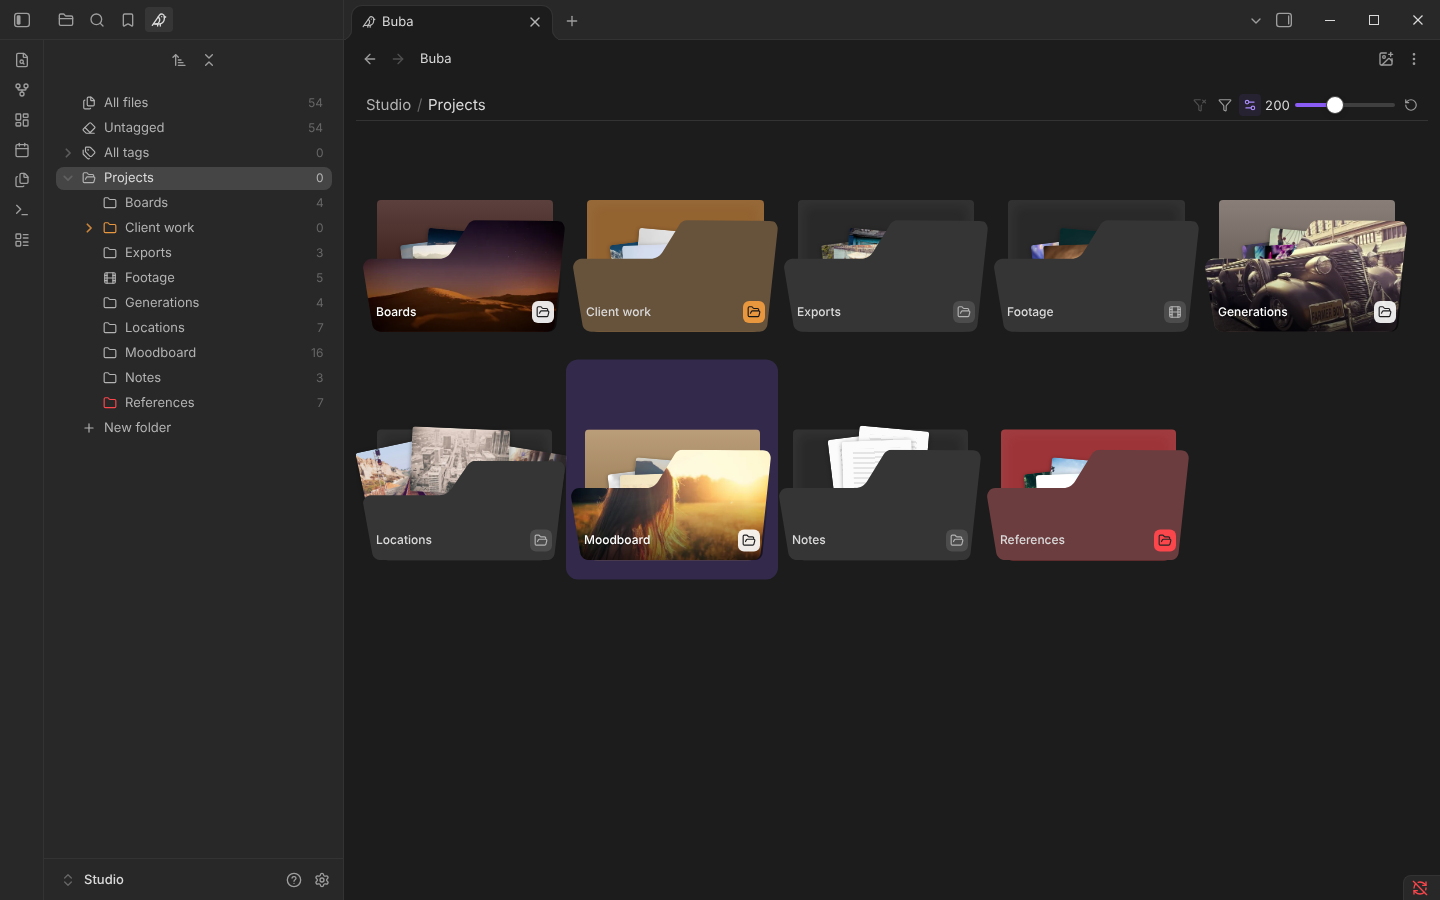
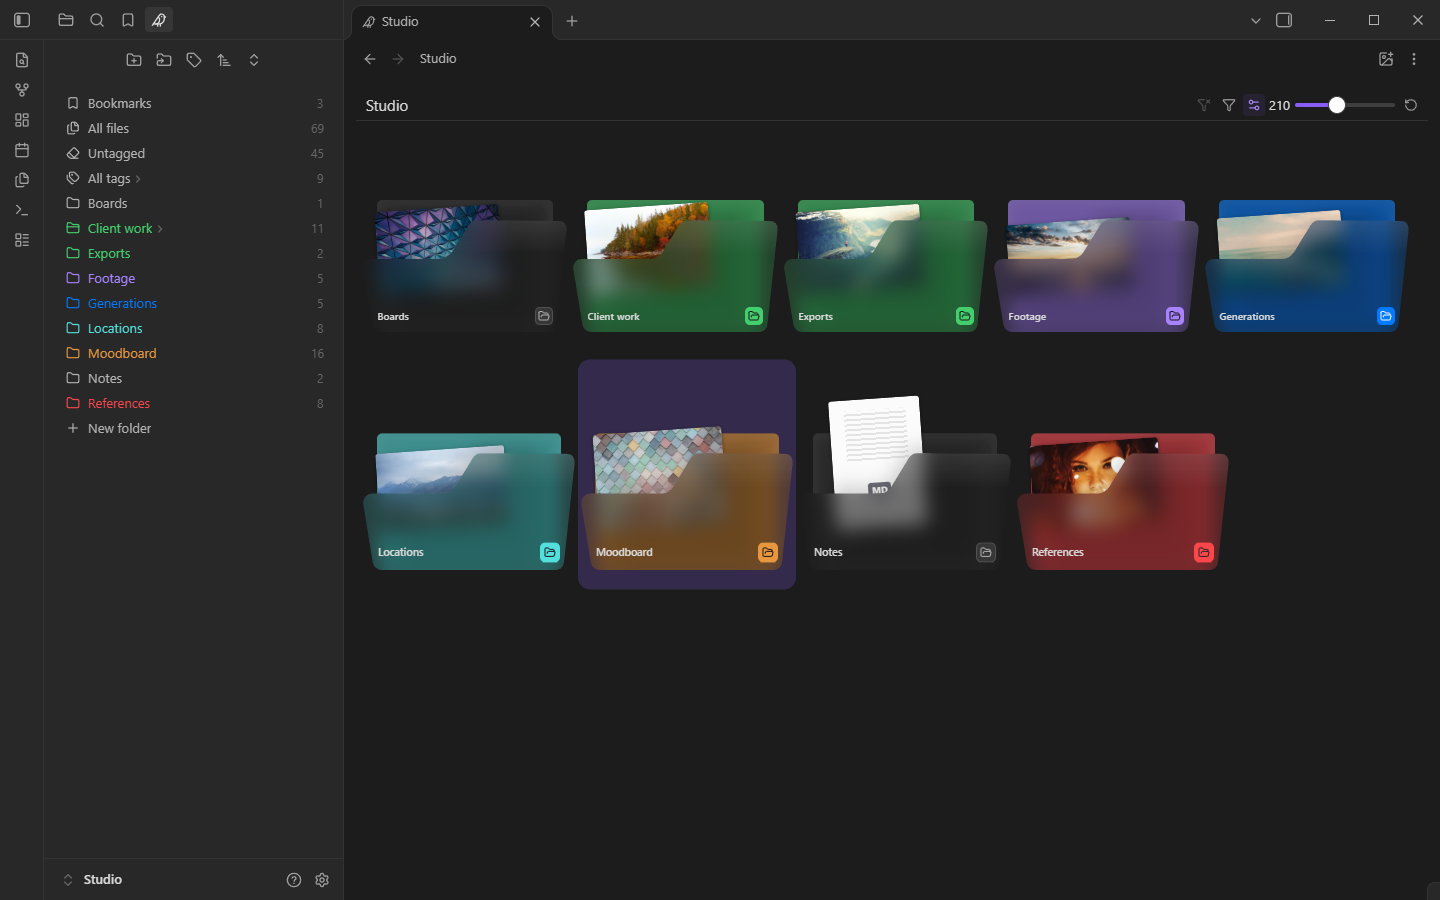
README: new screenshots and GIFs for 1.2.0, grid bookmarks and copy-paste of tiles

diff --git a/README.md b/README.md
@@ -6,31 +6,37 @@ Buba turns the folders of your vault into a visual asset library. Every file sho
 
 ## Browse your folders
 
-- **A grid of previews for any folder**: one folder, a folder with its subfolders, every file with a tag, or all files at once. Go back and forward through visited folders like in a browser.
+- **A grid of previews for any folder**: one folder, a folder with its subfolders, every file with a tag, your bookmarks, or all files at once. Go back and forward through visited folders like in a browser.
+- **Tabs, as in Obsidian's file explorer**: the middle mouse button or "Open in new tab" opens a folder, tag or file in a new tab, and each Buba tab is titled by what it shows.
 - **Three layouts**: Grid with even tiles, Justified rows and Columns, with a tile size slider and file names on or off.
-- **Sorting by two keys**, for example by rating and then by date, and a file type filter.
+- **Sorting by two keys**, for example by rating and then by date, or by type to keep files of one kind together, and a file type filter.
 - **Each folder can keep its own view**, or all folders share one.
-- **Previews for many formats**: PNG, JPG, GIF, WebP and other images, videos, the first page of a PDF, the embedded preview of PSD, PSB and AI files, the beginning of Markdown and text notes. Other files get a format badge.
+- **Previews for many formats**: PNG, JPG, GIF, WebP and other images, videos, the first page of a PDF, the full picture of PSD and PSB files, the embedded preview of AI files, the beginning of Markdown and text notes. Other files get a format badge.
 
 ![Switching the grid between the Grid, Justified and Columns layouts and changing the tile size](docs/readme/layouts.gif)
 
 ## Folders with covers
 
-- **Folder tiles look like folders**: a slanted front with a few of the folder's files peeking out of it, which fan out when you point at the folder on a computer.
+- **Folder tiles look like folders**: a glass front with the folder's cover standing inside, and more of its files fanning out when you point at the folder on a computer.
 - **Give a folder a cover** to turn it into a board of references: right-click the tile and upload a picture, or make any picture in the folder its cover. Move and zoom the cover to frame it. Covers are stored in Buba's own data, never among your files, and follow the folder when you rename or move it.
-- **Without a cover** a folder shows its own icon and color, as in the tree, or its newest picture.
-- **Choose the look** in Buba's settings: the cover on the front or behind a glass front, files inside or not, and how a selected folder is marked.
+- **Without a cover** a folder shows its own icon and color, as in the tree. Turn on "Cover from contents" in Buba's settings to show its newest picture instead.
+- **Choose the look** in Buba's settings: one picture as the cover, a few files inside or none, the cover in front or behind the glass, and how a selected folder is marked.
 
-![Folder tiles in the grid: covers on Boards, Generations and Moodboard, colored Client work and References, files peeking out of each folder, Moodboard selected](docs/readme/folders.png)
+![Folder tiles in the grid: a picture standing in each folder behind its glass front, each folder in its own color, Moodboard selected](docs/readme/folders.png)
 
 ## Organize the tree
 
-- **Folder colours and icons** in the Buba tree, so the folders you use most stand out. A closed folder shows a closed folder icon, an open one an open icon, and on a computer folders open with a short slide.
+- **Folder colours and icons** in the Buba tree, so the folders you use most stand out. A closed folder shows a closed folder icon, an open one an open icon. Click the icon to open or close a folder, or double-click its name; on a computer folders open with a short slide.
+- **Buttons at the top of the tree**: a new folder alongside the open one, a new subfolder, a new tag, the sort order (by name, or by created or modified time) and collapse all.
+- **Bookmarks**: the "Bookmarks" row opens Obsidian's bookmarks as a grid, folders first, so the files you keep coming back to are one click away.
+- **Pick several folders or tags** with Ctrl and Shift to give them one colour or icon, move them or delete them in one go.
 - **Drag a folder onto another folder** to move it inside; the folder under the pointer lights up. Drop it on "All files" to move it to the top level. The open folder stays open at its new place, and Ctrl+Z in the grid moves it back.
-- **Rename and delete folders** right in the tree, from the menu or with the Delete key. Delete asks first, and warns when files inside are references of generations.
-- **Drag a tag onto a tag group** to move it into the group, or onto "All tags" to take it out.
+- **Rename and delete folders** right in the tree, from the menu or with the Delete key. Delete asks first, and warns when files inside are references of generations. Tags and tag groups are deleted the same way.
+- **Drag a tag onto a tag group** to move it into the group, or onto "All tags" to take it out. When the group is exclusive, Buba asks which tag each file keeps.
 
-![Dragging the Exports folder into Client work, then dragging the night tag into the status group](docs/readme/tree.gif)
+![Picking Locations and References with Ctrl, giving both one color from the menu and dragging them into Client work](docs/readme/tree.gif)
+
+![Bookmarks open in the Buba grid: the bookmarked Posters folder first, then two bookmarked pictures](docs/readme/bookmarks.png)
 
 ## Tags, ratings and comments
 
@@ -51,19 +57,24 @@ Buba turns the folders of your vault into a visual asset library. Every file sho
 
 ## Canvas and everyday file work
 
-- **Drag files from the grid onto an Obsidian canvas** to add them as cards. The file panel then lists the canvases a file is on.
-- **Rename, duplicate, move and delete** from the grid, with undo.
+- **Drag files from the grid onto an Obsidian canvas** to add them as cards. The file panel then lists the canvases a file is on, and shows the file you select on a canvas.
+- **Copy, paste and undo as in a file manager**: Ctrl+A selects every tile, Ctrl+C and Ctrl+V copy tiles into another folder, and Ctrl+Z undoes the last Buba action, whatever it was.
+- **Right-click empty space** in the grid to create a folder, note, canvas or base right there, or to paste.
+- **Rename, duplicate, move and delete** from the grid. Moving thousands of files shows its progress and can be stopped.
 - **Drop or paste files from your computer** to add them to the open folder; they stay selected, so they never get lost in the sort order. Drag files from the grid into other apps.
+- **Install fonts** on a computer: right-click a .ttf, .otf or .ttc file, or several, and choose "Install font".
 
-![Dragging two pictures from the Buba grid onto a canvas next to it](docs/readme/canvas.gif)
+![Dragging two pictures from the Buba grid onto a canvas next to it, then clicking a card on the canvas to see its file in the file panel](docs/readme/canvas.gif)
+
+![Picking three tiles, copying them with Ctrl+C and pasting them into Exports with Ctrl+V, then the menu of the grid's empty space with New note, New canvas and New base](docs/readme/copy-paste.gif)
 
 ## On the phone
 
-Buba works in the Obsidian mobile app with the same grid, tree and file panel, laid out for a small screen. Switch between the Buba tree and Obsidian's file explorer at the bottom of the side panel. Menus open with a long press, the file panel is one tap away from the menu, and the viewer moves between files with a swipe.
+Buba works in the Obsidian mobile app with the same grid, tree and file panel, laid out for a small screen. Switch between the Buba tree and Obsidian's file explorer at the bottom of the side panel. Menus open with a long press, the file panel is one tap away from the menu, and the viewer moves between files with a swipe. Files opened from the grid get arrows to the next and previous file, and "Close" brings you back to the grid.
 
-A few things need a computer: video playback on hover, dragging folders, tags and files, dropping files from the file manager. To add files on a phone, share them to Obsidian from another app or use the add items in the grid menu.
+A few things need a computer: video playback on hover, dragging folders, tags and files, dropping files from the file manager, installing fonts. To add files on a phone, share them to Obsidian from another app or use the add items in the grid menu.
 
-![Buba on a phone: the grid, the folder tree in the side panel, the long-press menu of a file and its file panel](docs/readme/phone.png)
+![Buba on a phone: the grid, the folder tree in the side panel, the long-press menu of a file, and a file opened from the grid with arrows to the next one](docs/readme/phone.png)
 
 ## Generation passport
 
@@ -108,7 +119,7 @@ Buba follows the language of Obsidian: English by default, Russian when Obsidian
 
 ## Customize the look
 
-Buba follows your Obsidian theme. With the [Style Settings](https://github.com/mgmeyers/obsidian-style-settings) plugin installed, its settings get a **Buba** section: row spacing in the folder and tag trees, tag sizes, how files without a preview look, the comment badge and the "Buba" label in menus. The phone has its own sliders where it needs other numbers. Without Style Settings nothing changes.
+Buba follows your Obsidian theme, and the [Buba theme](https://github.com/Opus721/obsidian-buba-theme) is made to go with it. With the [Style Settings](https://github.com/mgmeyers/obsidian-style-settings) plugin installed, its settings get a **Buba** section: row spacing in the folder and tag trees, tag sizes, how files without a preview look, the comment badge and the "Buba" label in menus. The phone has its own sliders where it needs other numbers. Without Style Settings nothing changes.
 
 ## Where your data lives
 
